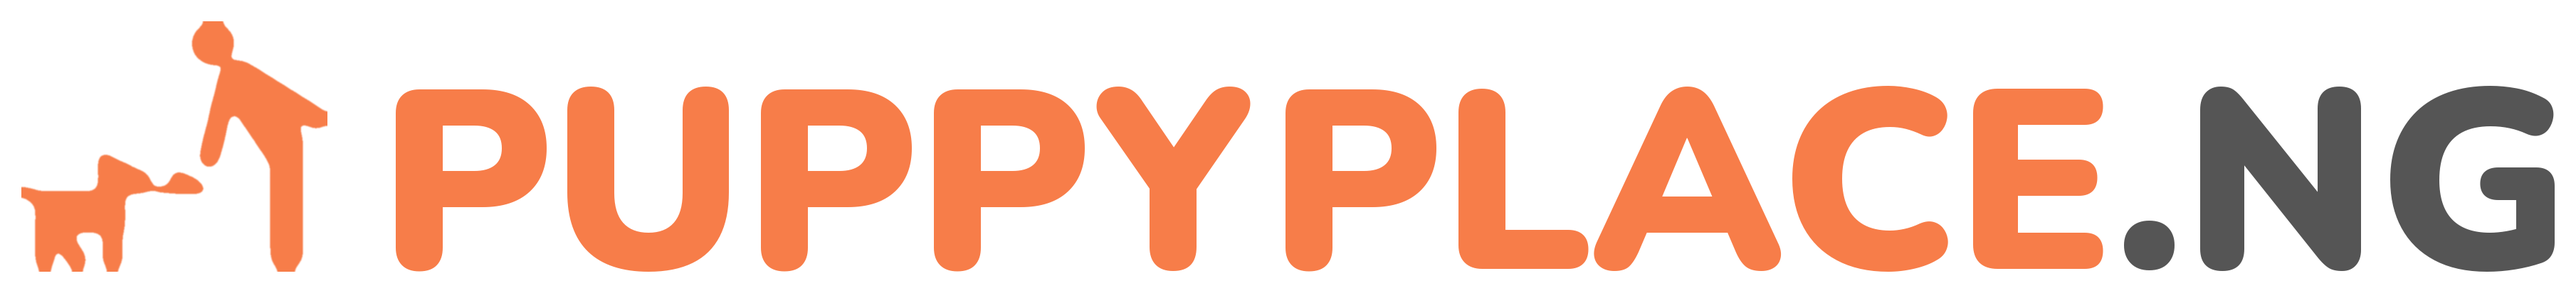
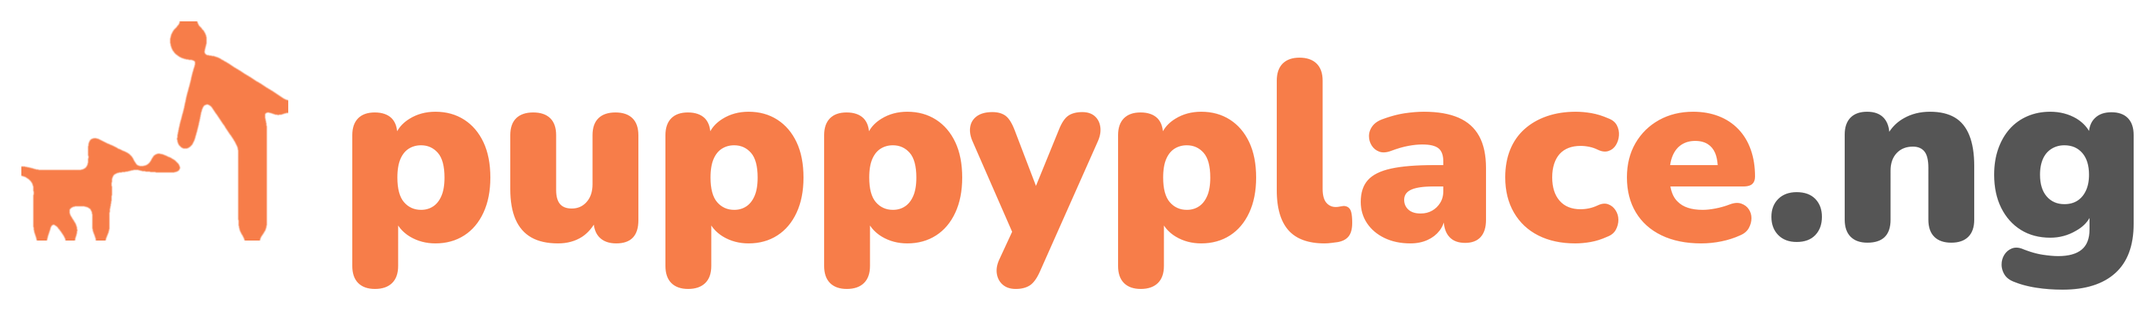
Watermark text in lowercase: puppyplace.ng
Claude-Session: https://claude.ai/code/session_01Xv3twPWppDTBNGyJDQ3rby

diff --git a/worker.js b/worker.js
@@ -1990,8 +1990,8 @@ const shrinkLater = (ctx, env, files) => ctx.waitUntil(
  * middle (the way Jiji marks listing photos), so a copied photo still says
  * where it came from. It is burned into the stored file at upload time, before
  * shrinking. The mark is /images/watermark.png (the logo's figure, then
- * PUPPYPLACE in orange and .NG in grey, on a see-through background; made from
- * images/logo.png at 3559×353), else the site logo.
+ * puppyplace in orange and .ng in grey, on a see-through background; made from
+ * images/logo.png at 3028×437), else the site logo.
  * It needs the Images binding (wrangler.jsonc → "images"); without it, or if
  * stamping fails, the photo is saved unmarked rather than refused.
  */
